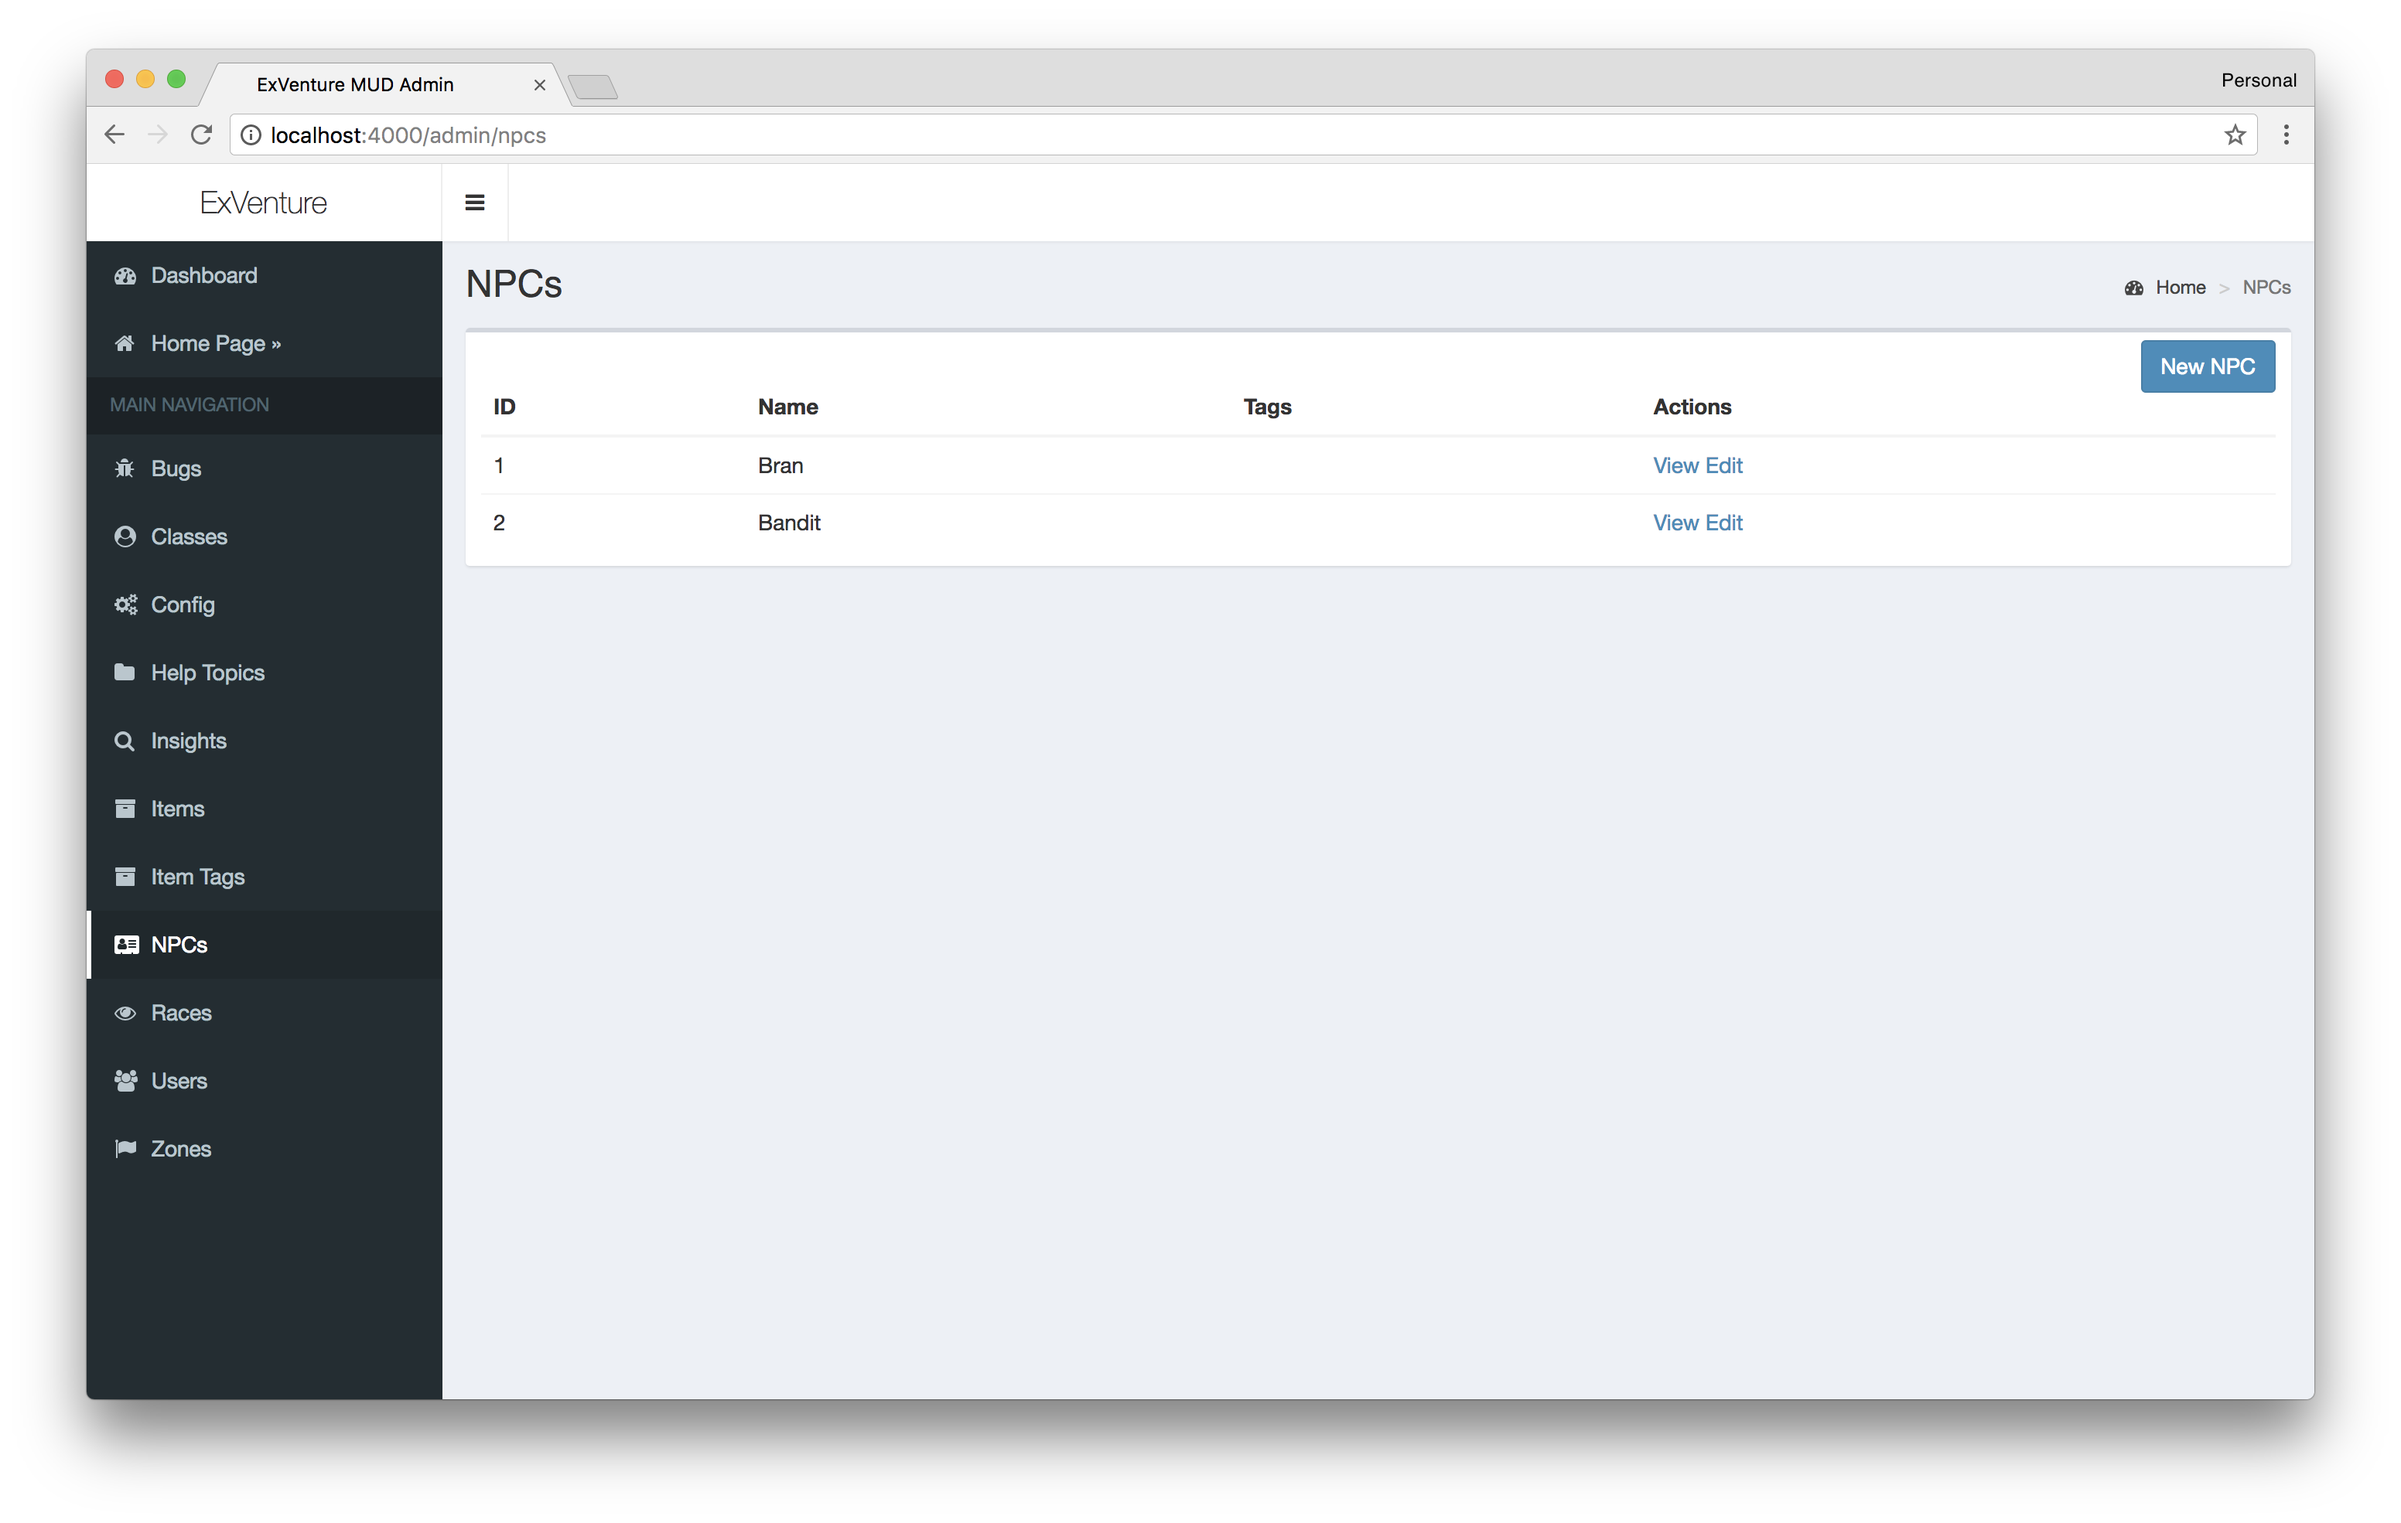
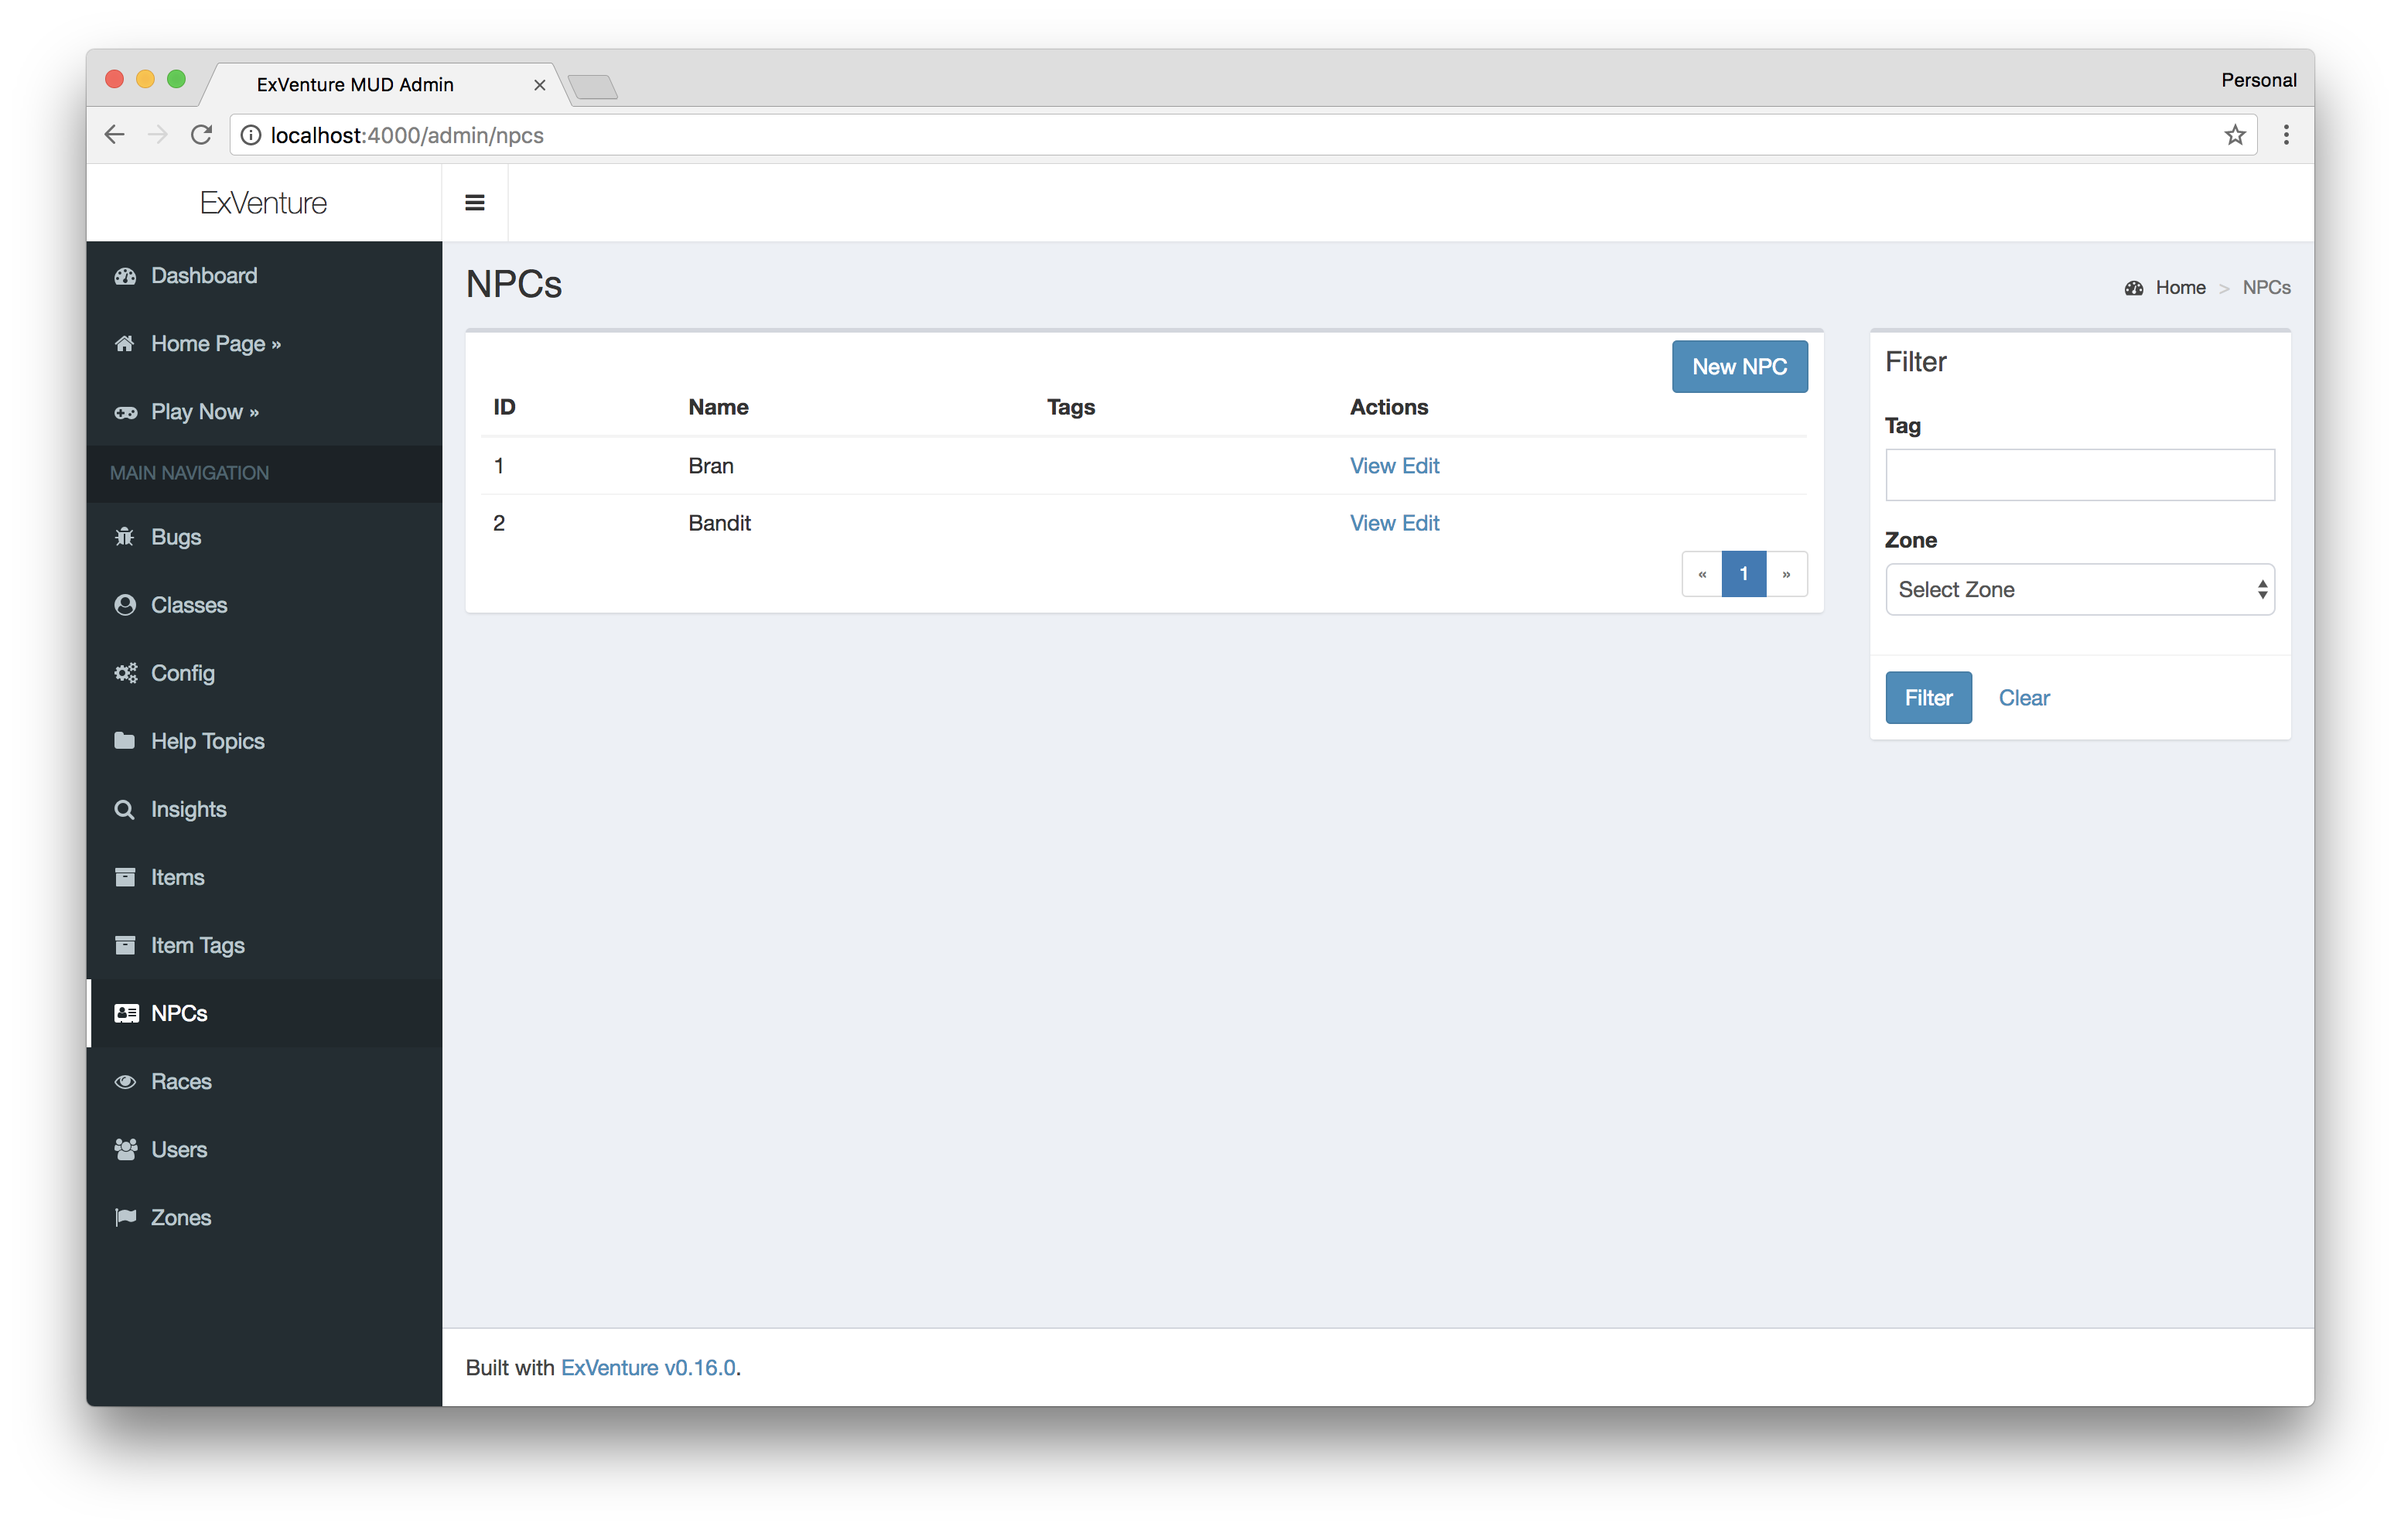
Update npc index docs

diff --git a/docs/admin/npcs.md b/docs/admin/npcs.md
@@ -2,7 +2,7 @@
 
 ![NPCs Index](/images/admin-npc-index.png)
 
-The index lists out all of the NPCs in the game.
+The index lists out all of the NPCs in the game. You can also filter the list by zone and tag.
 
 ## Create a new NPC
 
